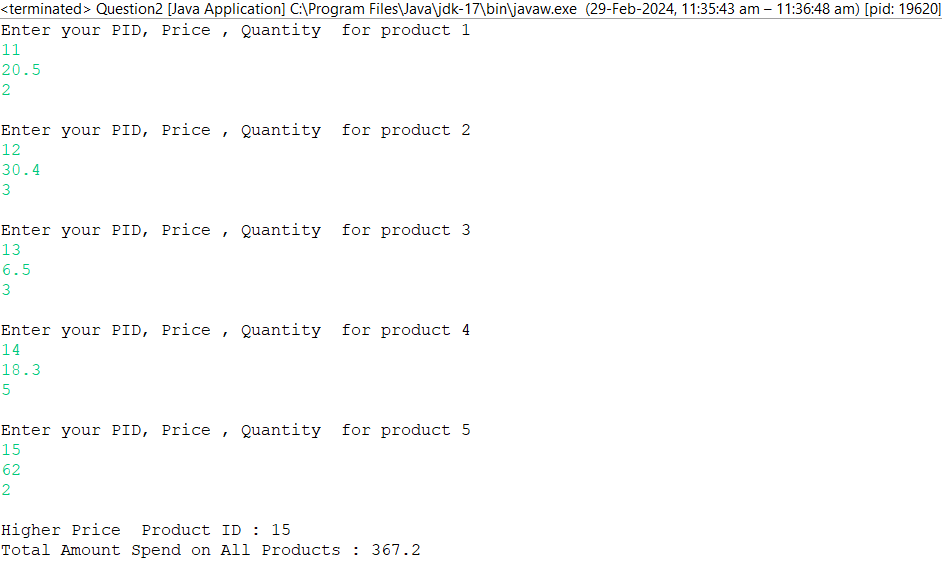
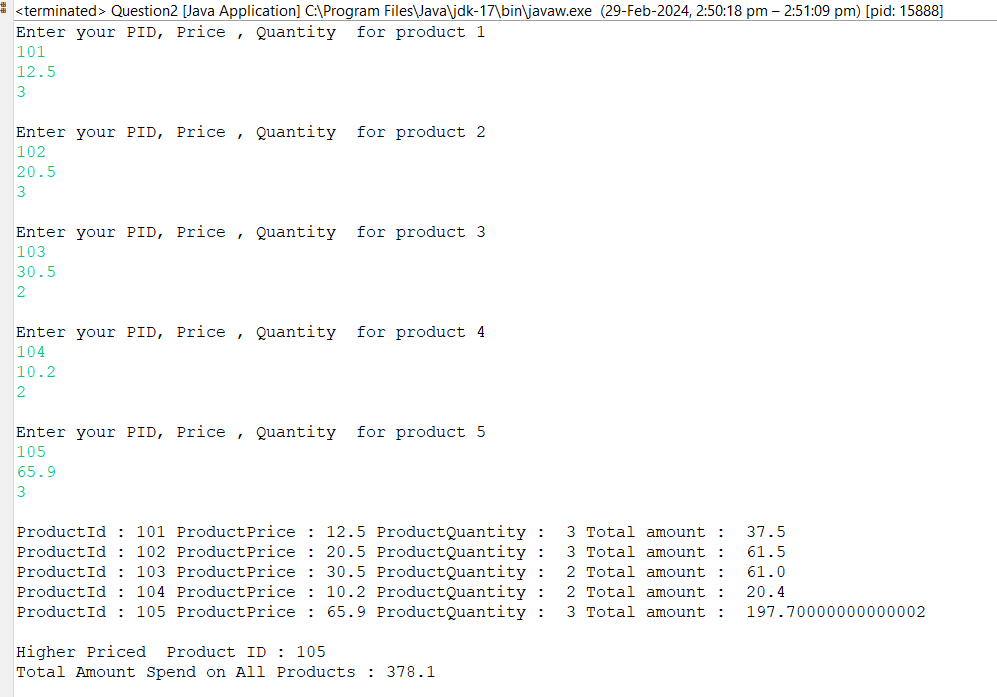
Final change

diff --git a/src/tasktwo/Question3.java b/src/tasktwo/Question3.java
@@ -8,15 +8,16 @@ class Account{
 	
 	//no argument constructor
 	Account(){
-		System.out.println("No-Argumented Constructor");
+		System.out.println("**No-Argumented Constructor**");
 	}
 	
 	//two Arguments Constructor
-	Account(String name,int accountNumber ,double depositAmount,double withdrawnAmount ){	
+	Account(String name,long accountNumber ,double depositAmount,double withdrawnAmount ){	
 		this.depositAmount = depositAmount;
 		this .withdrawAmount = withdrawnAmount;
-		System.out.println("Two Argumented Constructor \n" );
-		System.out.println("NAME : "+name+"  Acc Number : "+accountNumber+"  Deposited Amount  " +depositAmount+"  Withdrawn Amount " +withdrawAmount);
+		System.out.println();
+		System.out.println("**Two Argumented Constructor **\n" );
+		System.out.println("NAME : "+name+"  Account Number : "+accountNumber+"  Deposited Amount : " +depositAmount+"  Withdrawn Amount : " +withdrawAmount);
 		
 	}		
 	//instance method for deposit amount
@@ -44,14 +45,15 @@ public class Question3 {
 		double userBalance;
 		//object creation
 		Account obj = new Account();// no arguments constructor
-		userBalance=obj.display();
-		//System.out.println("Balance Amount is : " + userBalance);		
+		userBalance=obj.display();		
 		System.out.println();
 		//Scanner class declaration for input 
 		Scanner input = new Scanner(System.in);
-		System.out.println("Enter your Name , Account numeber and Amount to be Deposited");
+		System.out.println("Type your Name ");
 		String name = input.nextLine();
-		int accountNumber = input.nextInt();		
+		System.out.println("Type your Account number ");
+		long accountNumber = input.nextLong();	
+		System.out.println("Enter Amount to be Deposited ");
 		double userAmount = input.nextDouble();//input 
 		System.out.println("Enter the Amount to be withdrawn");
     	double userWithdraw = input.nextDouble();//input	

diff --git a/src/tasktwo/Question2.java b/src/tasktwo/Question2.java
@@ -1,6 +1,7 @@
 package tasktwo;
 import java.util.Scanner;
 
+
 //Product class
 class Product{
 	
@@ -76,6 +77,16 @@ class XYZ {
 		}
 		return higherPid;
 	}
+	
+	void Display() 
+	{
+		double totalPrice = 0;
+		for (Product prd:ProductList) 
+		{
+			totalPrice=prd.price*prd.quantity;
+			System.out.println("ProductId : "+prd.pid +" ProductPrice : " +prd.price+" ProductQuantity :  "+prd.quantity +" Total amount :  "+totalPrice);
+		}
+		}
 }
 	
 public class Question2 {
@@ -84,11 +95,12 @@ public class Question2 {
         public static void main(String[] args) {
 		
         XYZ objectXyz = new XYZ();
-	    objectXyz.userInput();//for product details
+	    objectXyz.userInput();//for product input
+	    objectXyz.Display();// for details
 		double totalAmount = objectXyz.totalValue();//Total amount of all products
-		int highValue = objectXyz.higherPid(); //highest product id
-		
-		System.out.println("Higher Price  Product ID : "+highValue);
+		int highValue = objectXyz.higherPid(); //higher product 
+		System.out.println();
+		System.out.println("Higher Priced  Product ID : "+highValue);
 		System.out.println("Total Amount Spend on All Products : "+totalAmount);
 
 	}

diff --git a/src/tasktwo/Question4.java b/src/tasktwo/Question4.java
@@ -13,6 +13,7 @@ class Persons{
 	Persons(String name , int age){
 		this.name=name;
 		this.age=age;
+		System.out.println("*** Base class ***");
 	}
 }
 
@@ -26,7 +27,7 @@ class Employee extends Persons{
 		super(name,age);//Parent class constructor call using super 
 		this.employeeId = employeeId;
 		this.salary = salary;
-		
+		System.out.println("*** Child class ***");
 	}
 	void display() {
 		
@@ -41,13 +42,16 @@ public class Question4 {
 		
 		//input
 		Scanner input = new Scanner(System.in);
-		System.out.println("Enter your Name ,Age ,Emp ID and Salary ");
+		System.out.print("Enter your Name ");
 		String name=input.nextLine();//input 
-		int age = input.nextInt();;
+		System.out.print("Enter your Age ");
+		int age = input.nextInt();
+		System.out.print("Enter your Emp Id ");
 		int employeeId = input.nextInt();
+		System.out.print("Enter your Salary ");
 		int salary = input.nextInt();
 		input.close();
-		
+		System.out.println();
 		//object for child class
 		Employee obj = new Employee(name,age,employeeId ,salary);
 		obj.display();//output

diff --git a/src/tasktwo/Question1.java b/src/tasktwo/Question1.java
@@ -22,6 +22,7 @@ public class Question1 {
 
 	public static void main(String[] args) {
 		
+		int defAge=18;//default age is 18
 		//input
 		Scanner input = new Scanner(System.in);
 		System.out.println("Enter your Name ");
@@ -29,8 +30,8 @@ public class Question1 {
 		input.close();
 		
 		//object
-		Person obj = new Person(name ,18);
-		obj.display();// default age 18 and method call using object
+		Person obj = new Person(name ,defAge);//constructor with arguments
+		obj.display();// output
 
 	}
 
